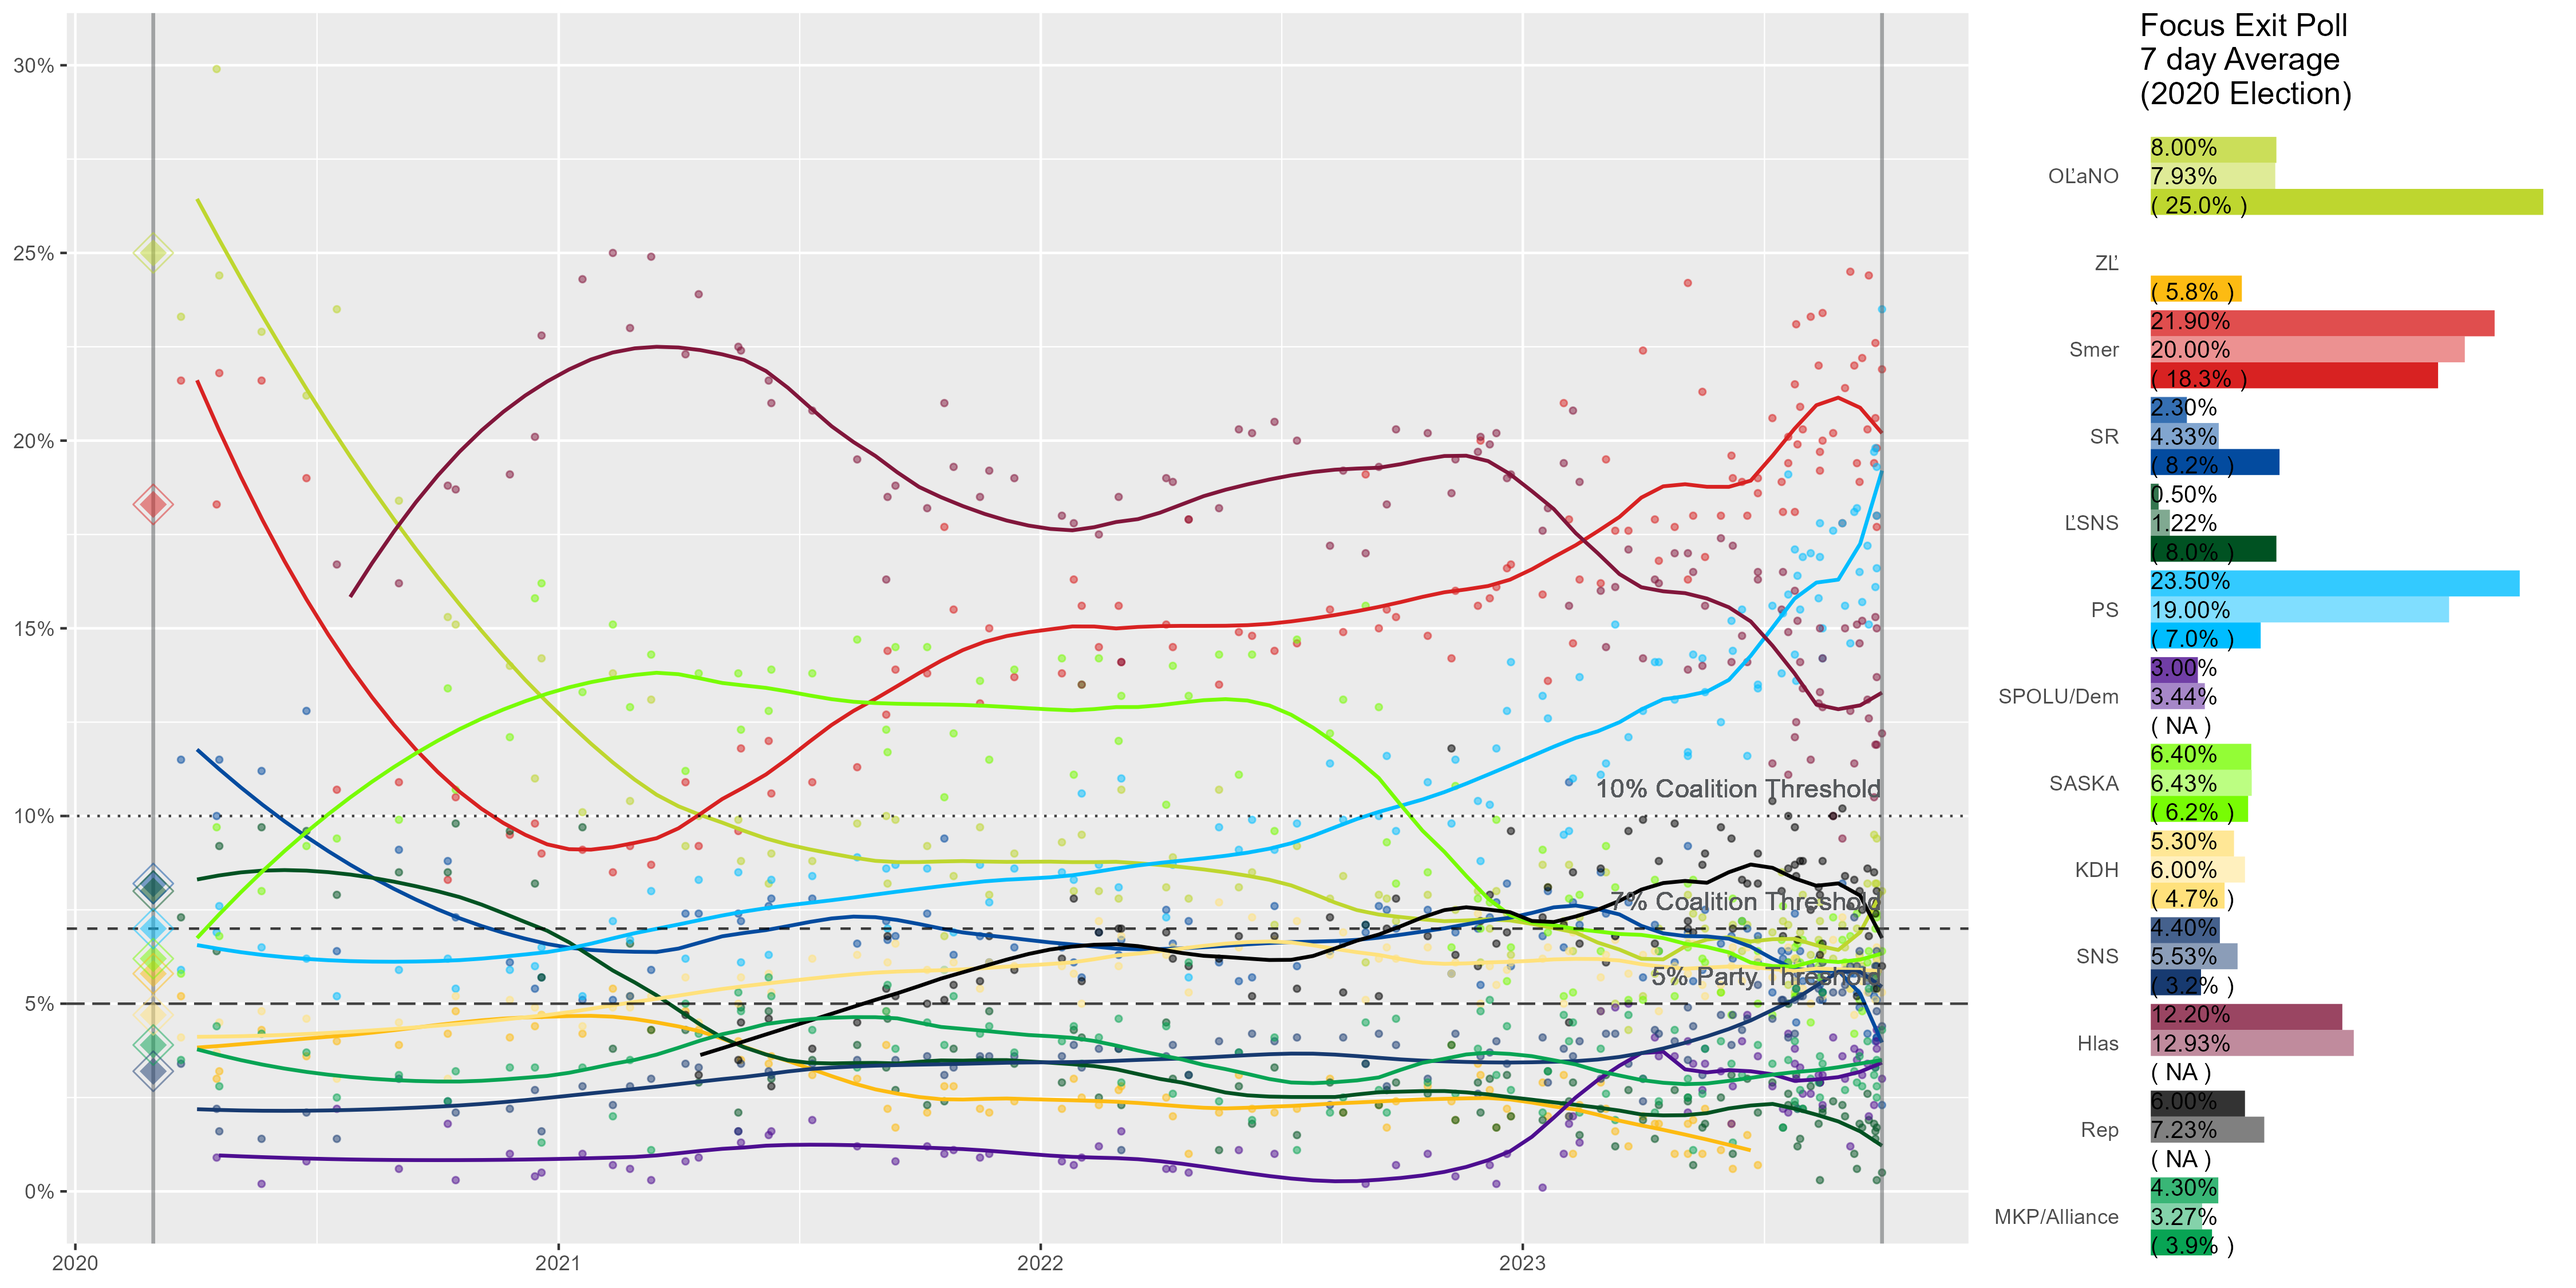
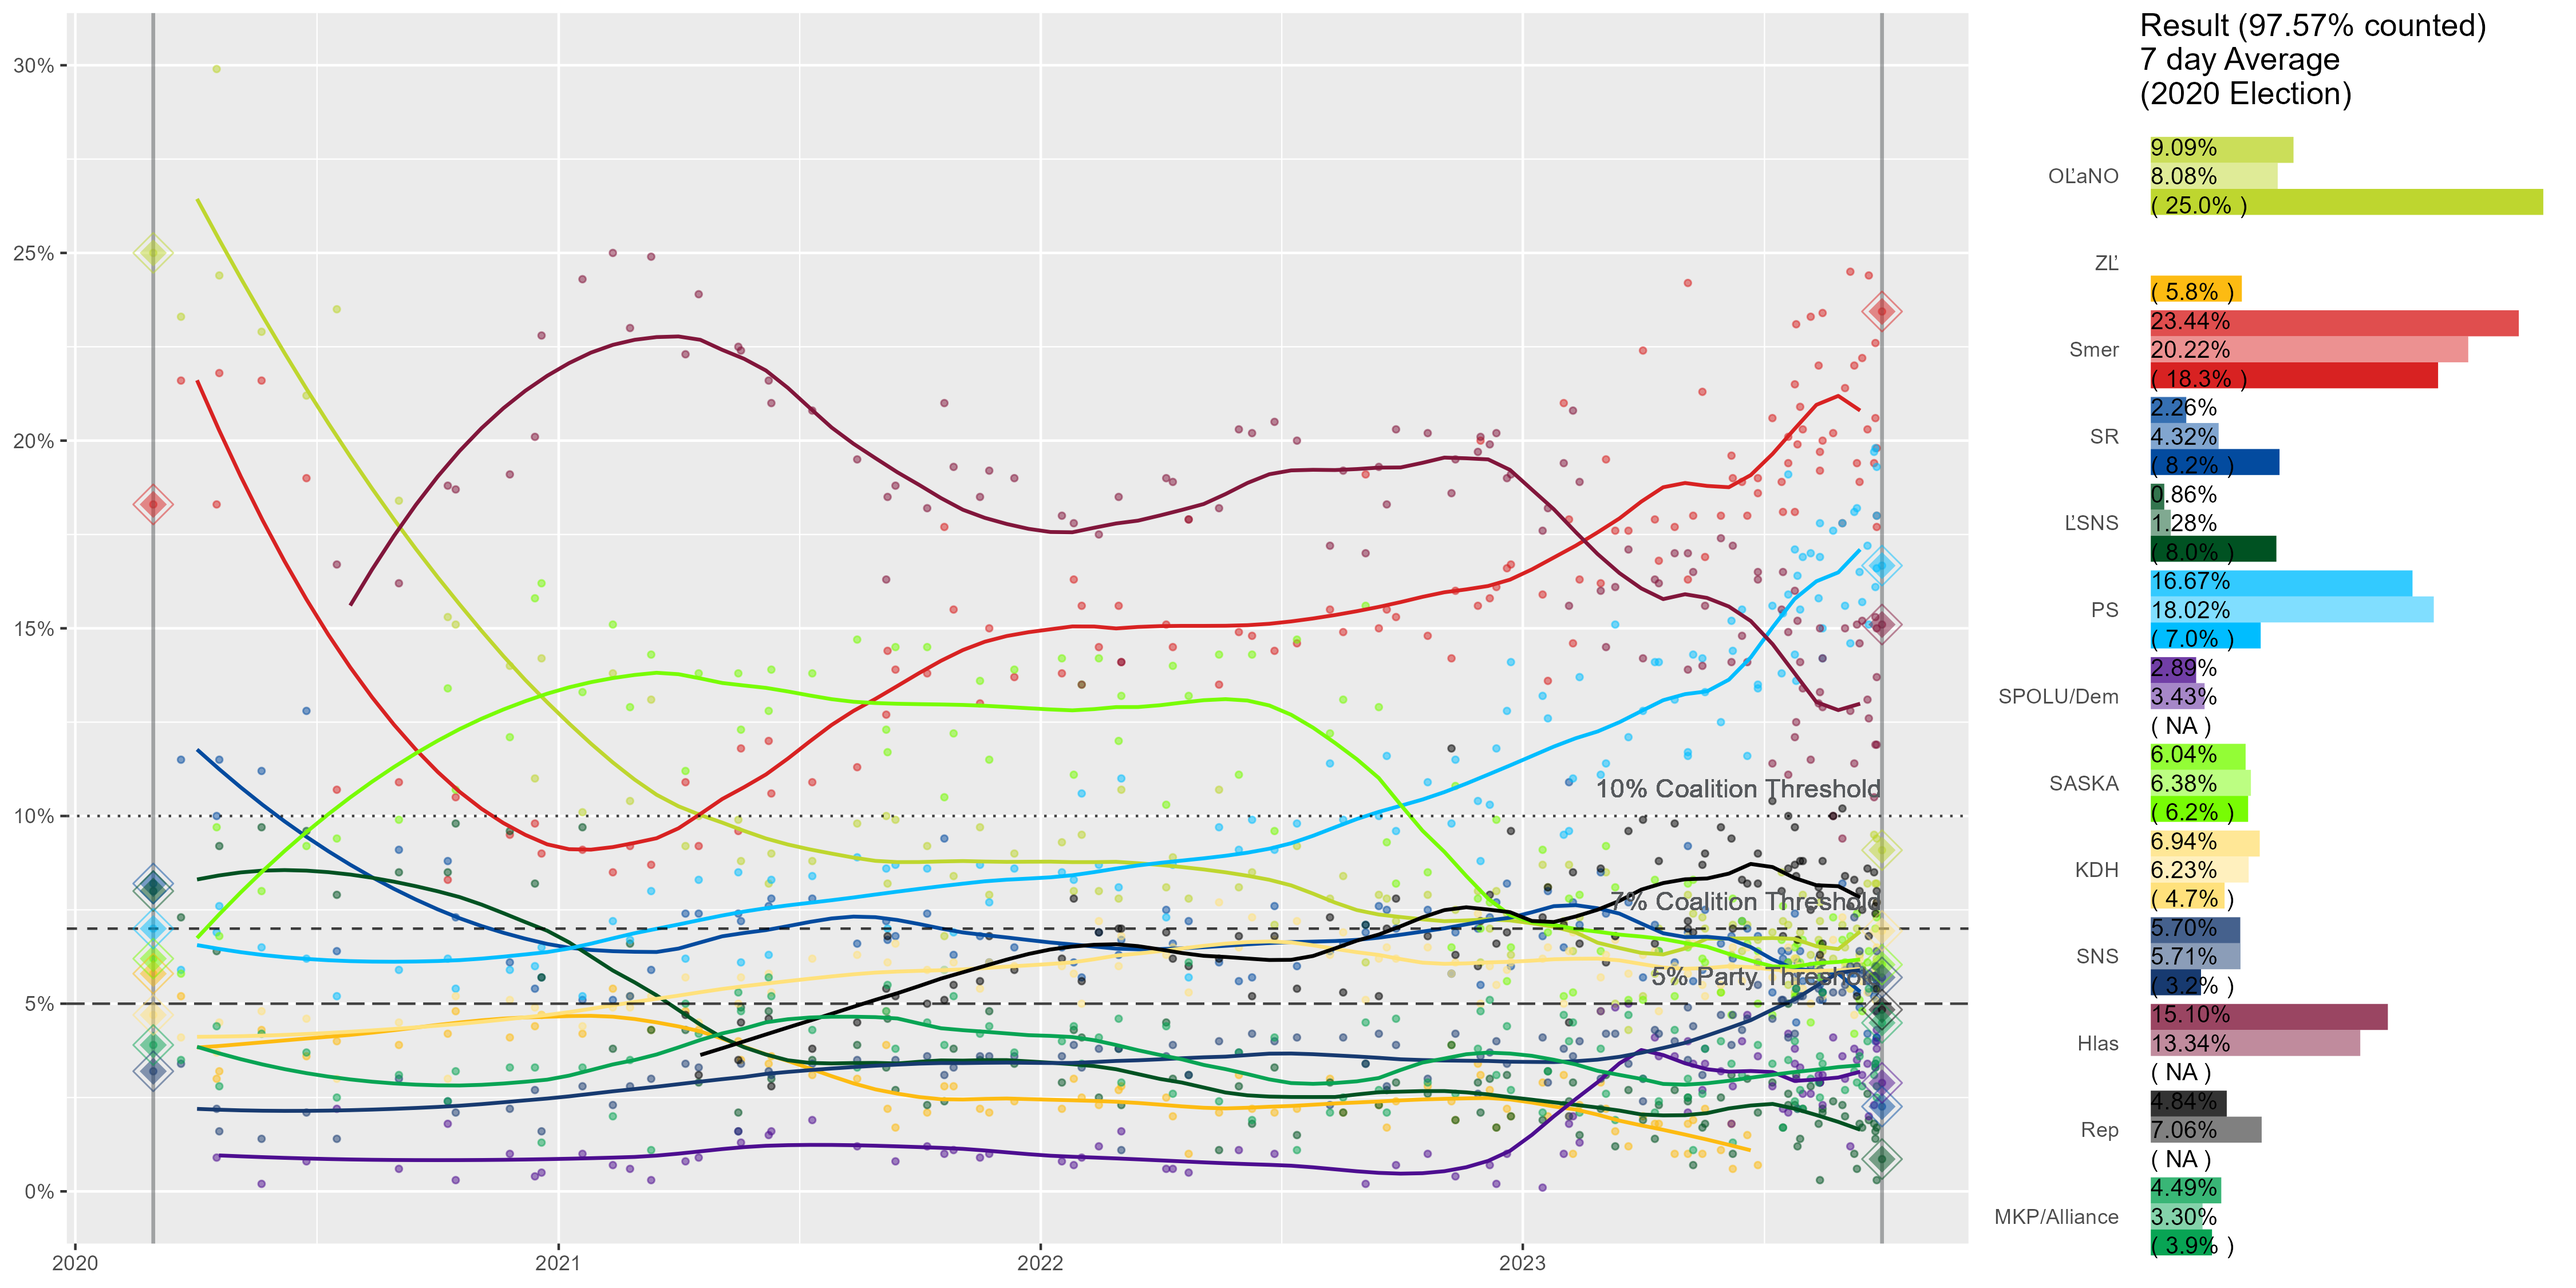
Slovak Election Results

diff --git a/Slovak/data2.py b/Slovak/data2.py
@@ -99,7 +99,7 @@ D = D[['Date','OĽaNO-ZĽ','OĽaNO','ZĽ','Smer','SR','ĽSNS','PS','SPOLU/Dem','
 D['OĽaNO'].fillna(D['OĽaNO-ZĽ'], inplace=True)
 D = D.drop(['OĽaNO-ZĽ'],axis=1)
 
-new_row = pd.DataFrame({'Date': '30 September 2023','OĽaNO':8,'ZĽ':np.NaN,'Smer':21.9,'SR':2.3,'ĽSNS':0.5,'PS':23.5,'SPOLU/Dem':3,'SASKA':6.4,'KDH':5.3,'SNS':4.4,'Hlas':12.2,'Rep':6,'MKP/Alliance':4.3}, index=[0])
+new_row = pd.DataFrame({'Date': '30 September 2023','OĽaNO':9.09,'ZĽ':np.NaN,'Smer':23.44,'SR':2.26,'ĽSNS':0.86,'PS':16.67,'SPOLU/Dem':2.89,'SASKA':6.04,'KDH':6.94,'SNS':5.70,'Hlas':15.10,'Rep':4.84,'MKP/Alliance':4.49}, index=[0])
 D = pd.concat([new_row,D]).reset_index(drop=True)
 D.Date=D.Date.astype(str).apply(lambda x: dateparser.parse(x, settings={'PREFER_DAY_OF_MONTH': 'first'}))
 
